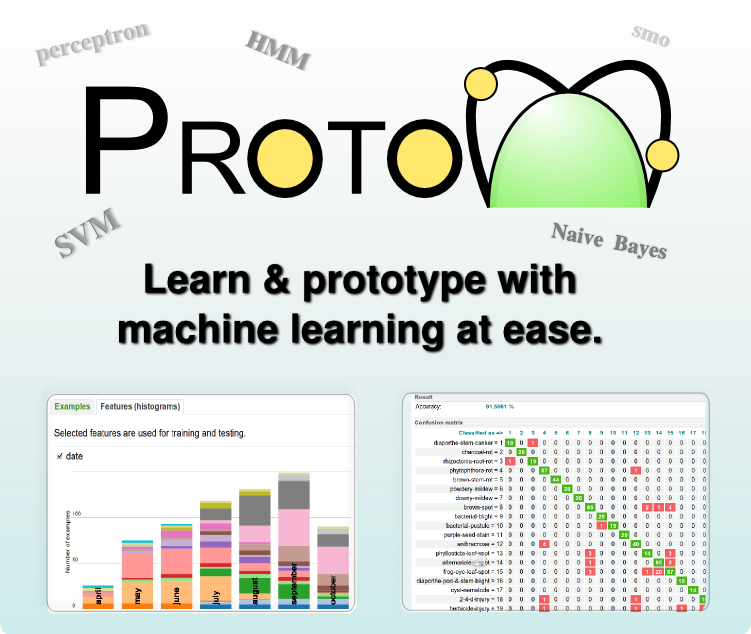
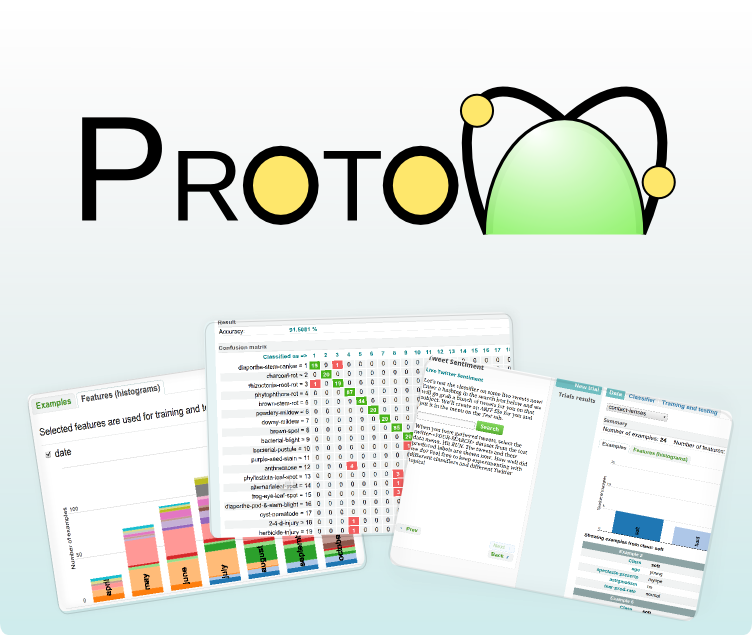
Changed the front page.

diff --git a/app/assets/stylesheets/application/session/_main.css.scss b/app/assets/stylesheets/application/session/_main.css.scss
@@ -4,50 +4,62 @@
 $text_width: 400px;
 
 // A blurb is a box with a <h1> and a <p>.
-#welcome {
-  padding: $column-margin / 2;
+// #welcome {
+  // padding: $column-margin / 2;
+//   
+  // > .blurb {
+    // border: 1px solid $border-color;
+    // @include box-shadow(0px 0px 10px $border-color);
+    // background-color: $content-background-color;
+    // @include border-radius(2em);
+    // padding: 1em;
+    // margin: 1em;
+// 
+    // // Title of the blurb--something inspiring.
+    // > h1 {
+      // $base-color: change-color($header-background-color,
+                                // $lightness: 40%);
+      // $shadow-color: change-color($base-color, $lightness: 30%);
+      // $color-stop: change-color($base-color, $saturation: 50%, $lightness: 60%);
+      // color: $header-title-color;
+      // background-color: $base-color;
+      // text-align: center;
+      // font-size: 24pt;
+      // margin: 0 0.5em;
+      // padding: 0;
+      // @include border-radius(1em);
+    // }
+// 
+    // // Description of why the title was so inspiring.
+    // > p {
+      // max-width: $text_width;
+      // margin: 1em;
+    // }
+  // }
+// 
+  // // Anything that needs to be right-aligned (e.g., the "Try it out!" button).
+  // .welcome-button {
+    // width: 130px;
+    // margin: $column-margin * 2 auto;
+// 
+    // a {
+      // height: 2.4em;
+      // line-height: 2.4em;
+      // font-size: 1.1em;
+    // }
+//     
+  // }
+// }
+
+article#main article#welcome.sidebar {
+  margin: 0 $column-margin * 3;
+  @include border-radius(8px);
+  height: 635px;
+  @include box-sizing(border-box);
+  min-height: 615px;
   
-  > .blurb {
-    border: 1px solid $border-color;
-    @include box-shadow(0px 0px 10px $border-color);
-    background-color: $content-background-color;
-    @include border-radius(2em);
-    padding: 1em;
-    margin: 1em;
-
-    // Title of the blurb--something inspiring.
-    > h1 {
-      $base-color: change-color($header-background-color,
-                                $lightness: 40%);
-      $shadow-color: change-color($base-color, $lightness: 30%);
-      $color-stop: change-color($base-color, $saturation: 50%, $lightness: 60%);
-      color: $header-title-color;
-      background-color: $base-color;
-      text-align: center;
-      font-size: 24pt;
-      margin: 0 0.5em;
-      padding: 0;
-      @include border-radius(1em);
-    }
-
-    // Description of why the title was so inspiring.
-    > p {
-      max-width: $text_width;
-      margin: 1em;
-    }
-  }
-
-  // Anything that needs to be right-aligned (e.g., the "Try it out!" button).
-  .welcome-button {
-    width: 130px;
-    margin: $column-margin * 2 auto;
-
-    a {
-      height: 2.4em;
-      line-height: 2.4em;
-      font-size: 1.1em;
-    }
-    
+  a.button {
+    width: 190px;
   }
 }
 
